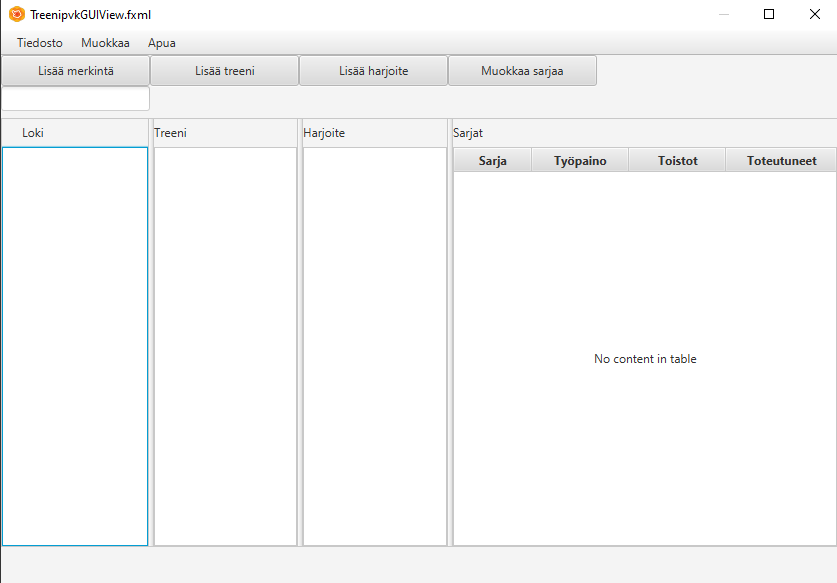
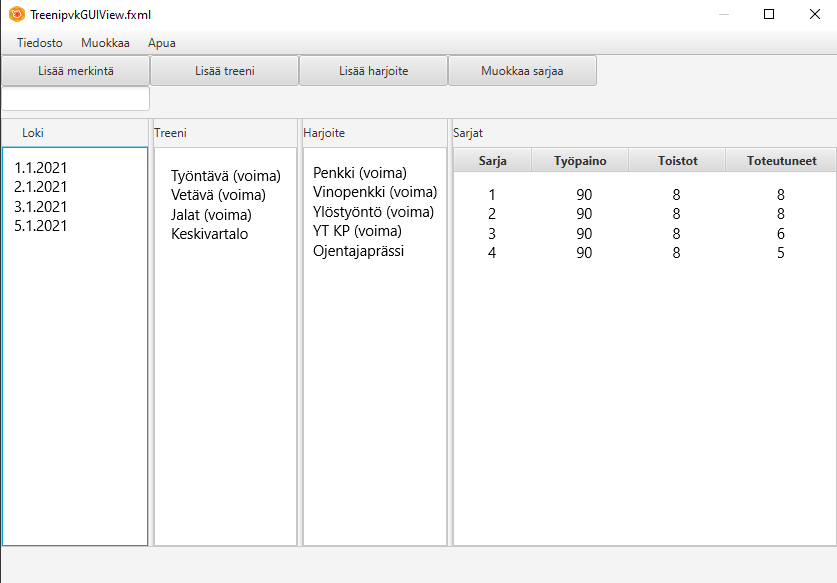
Vaihe 3 -muutokset ja kuviin lisätty.

diff --git a/src/treenipvk/TreenipvkGUIController.java b/src/treenipvk/TreenipvkGUIController.java
@@ -1,10 +1,117 @@
 package treenipvk;
 
+import java.awt.Desktop;
+import java.io.IOException;
+import java.net.URI;
+import java.net.URISyntaxException;
+import java.net.URL;
+import java.util.ResourceBundle;
+
+import fi.jyu.mit.fxgui.Dialogs;
+import fi.jyu.mit.fxgui.ModalController;
+import javafx.application.Platform;
+import javafx.fxml.FXML;
+import javafx.fxml.Initializable;
+
 /**
  * @author Akseli Jaara
  * @version 2.2.2021
  *
  */
-public class TreenipvkGUIController {
-      // TODO
+public class TreenipvkGUIController implements Initializable  {
+    
+    //@FXML private TextField hakuehto;
+    //kentät tähän
+    //@FXML private Label labelVirhe;
+
+    @Override
+    public void initialize(URL arg0, ResourceBundle arg1) {
+        // TODO Auto-generated method stub
+        
+    }
+    
+    @FXML
+    private void handleHakuehto() {
+        Dialogs.showMessageDialog("Eipä toimi hakeminen vielä");
+    }
+    
+    @FXML
+    private void handleTallenna() {
+        tallenna();
+    }
+    
+    @FXML
+    private void handleAvaa() {
+        avaa();
+    }
+    
+    @FXML
+    private void handleLopeta() {
+        tallenna();
+        Platform.exit();
+    }
+    
+    @FXML
+    private void handleLisaaMerkinta() {
+        ModalController.showModal(TreenipvkGUIController.class.getResource("LisaaMerkintaView.fxml"), "Merkintä", null, "");
+    }
+    
+    @FXML
+    private void handleLisaaTreeni() {
+        ModalController.showModal(TreenipvkGUIController.class.getResource("LisaaTreeniView.fxml"), "Treeni", null, "");
+    }
+    
+    @FXML
+    private void handleLisaaHarjoite() {
+        ModalController.showModal(TreenipvkGUIController.class.getResource("LisaaHarjoiteView.fxml"), "Harjoite", null, "");
+    }
+    
+    @FXML
+    private void handlePoistaMerkinta() {
+        ModalController.showModal(TreenipvkGUIController.class.getResource("PoistoView.fxml"), "Merkinta", null, "");
+    }
+    
+    @FXML
+    private void handlePoistaTreeni() {
+        ModalController.showModal(TreenipvkGUIController.class.getResource("PoistoView.fxml"), "Treeni", null, "");
+    }
+    
+    @FXML
+    private void handlePoistaHarjoite() {
+        ModalController.showModal(TreenipvkGUIController.class.getResource("PoistoView.fxml"), "Harjoiite", null, "");
+    }
+    
+    @FXML
+    private void handlePoistaSarja() {
+        ModalController.showModal(TreenipvkGUIController.class.getResource("PoistoView.fxml"), "Sarja", null, "");
+    }
+    
+    @FXML
+    private void handleApua() {
+        avustus();
+    }
+    
+    private void avaa() {
+        Dialogs.showMessageDialog("Avaaminen ei toimi vielä");
+    }
+    
+    private void tallenna() {
+        Dialogs.showMessageDialog("Tallennus, ei toimi vielä");
+    }
+    
+    /**
+     * Näytetään ohjelman suunnitelma erillisessä selaimessa.
+     */
+    private void avustus() {
+        Desktop desktop = Desktop.getDesktop();
+            try {
+                URI uri = new URI("https://tim.jyu.fi/view/kurssit/tie/ohj2/2021k/ht/akjojaar");
+                desktop.browse(uri);
+            } catch (URISyntaxException e) {
+                return;
+            } catch (IOException e) {
+                return;
+            }
+    
+        }
 }
